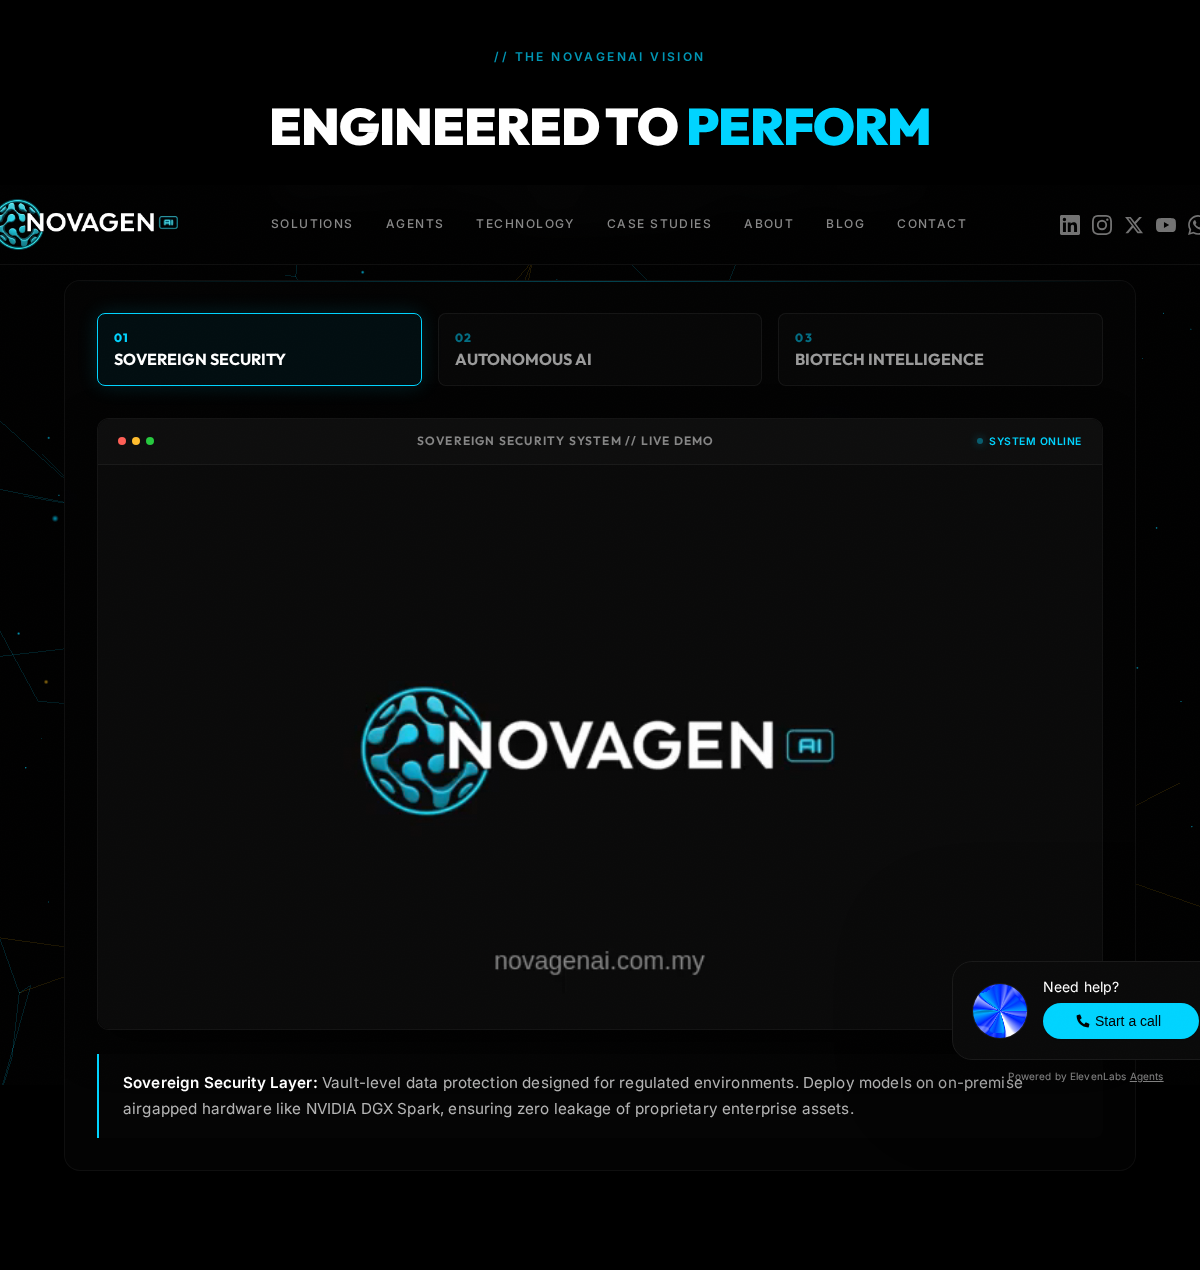
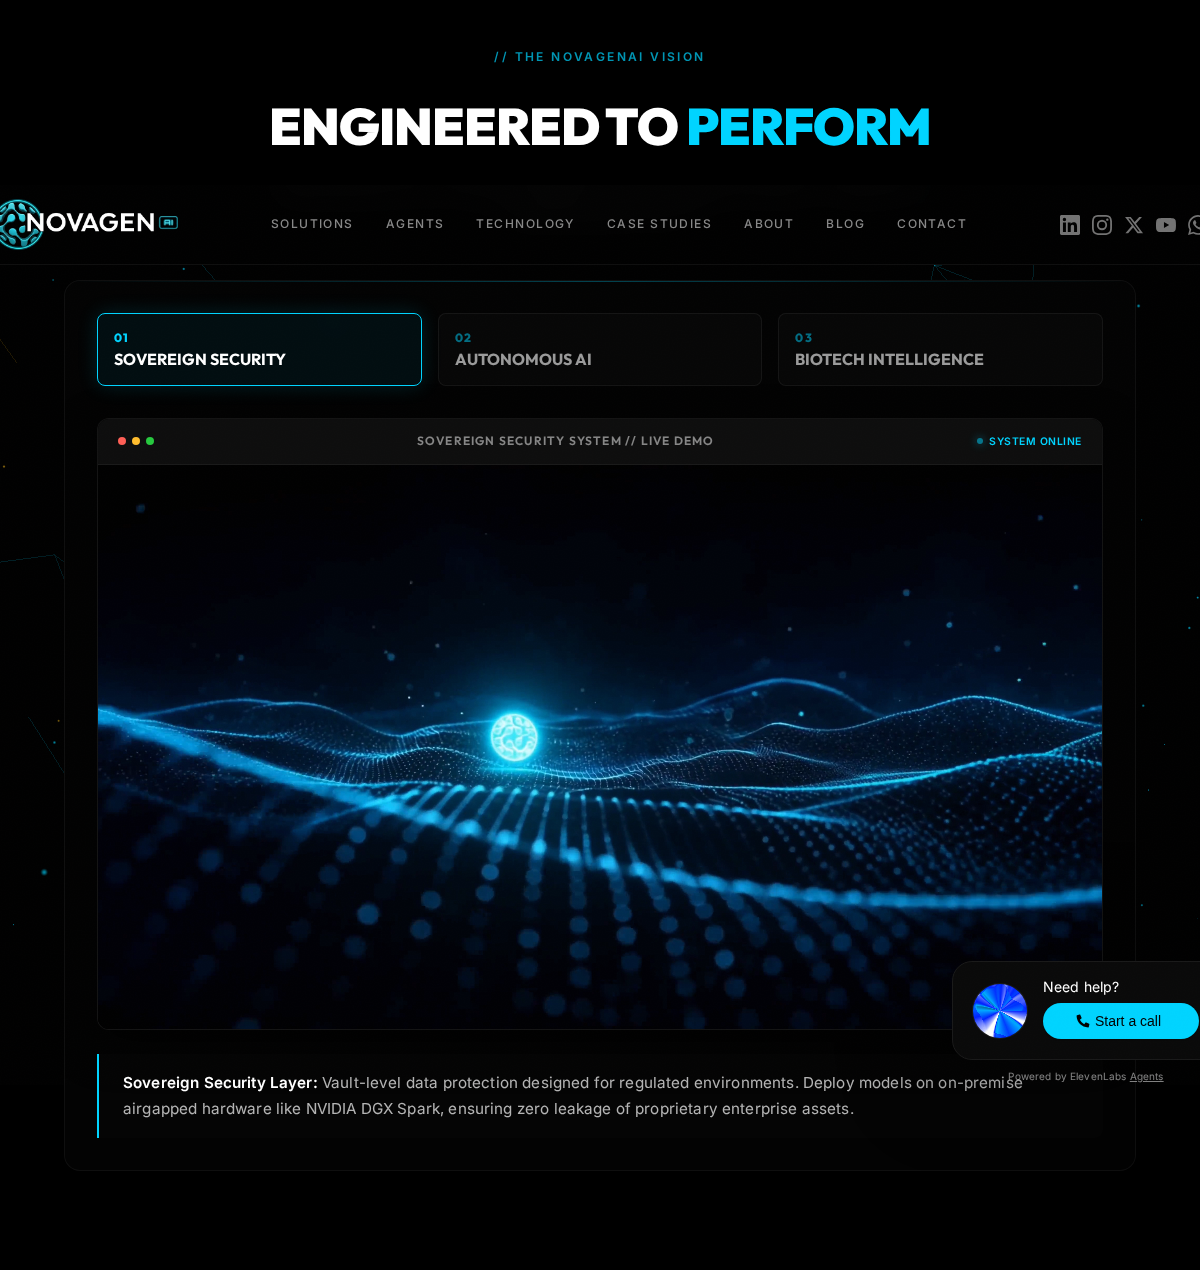
feat: deploy customer-uploaded vision-main.mp4 video showcase

Changed region(s): [[0.0617, 0.4913, 0.925, 0.8291]]

diff --git a/index.html b/index.html
@@ -1126,7 +1126,7 @@
                     <!-- Video 1: Security (Active) -->
                     <div class="showroom-video-item active" id="video-item-0">
                         <video preload="metadata" poster="blog/media/poster-security.jpg" playsinline controls muted loop>
-                            <source src="blog/media/enterprise-security-vault.mp4" type="video/mp4">
+                            <source src="blog/media/vision-main.mp4" type="video/mp4">
                         </video>
                     </div>
 